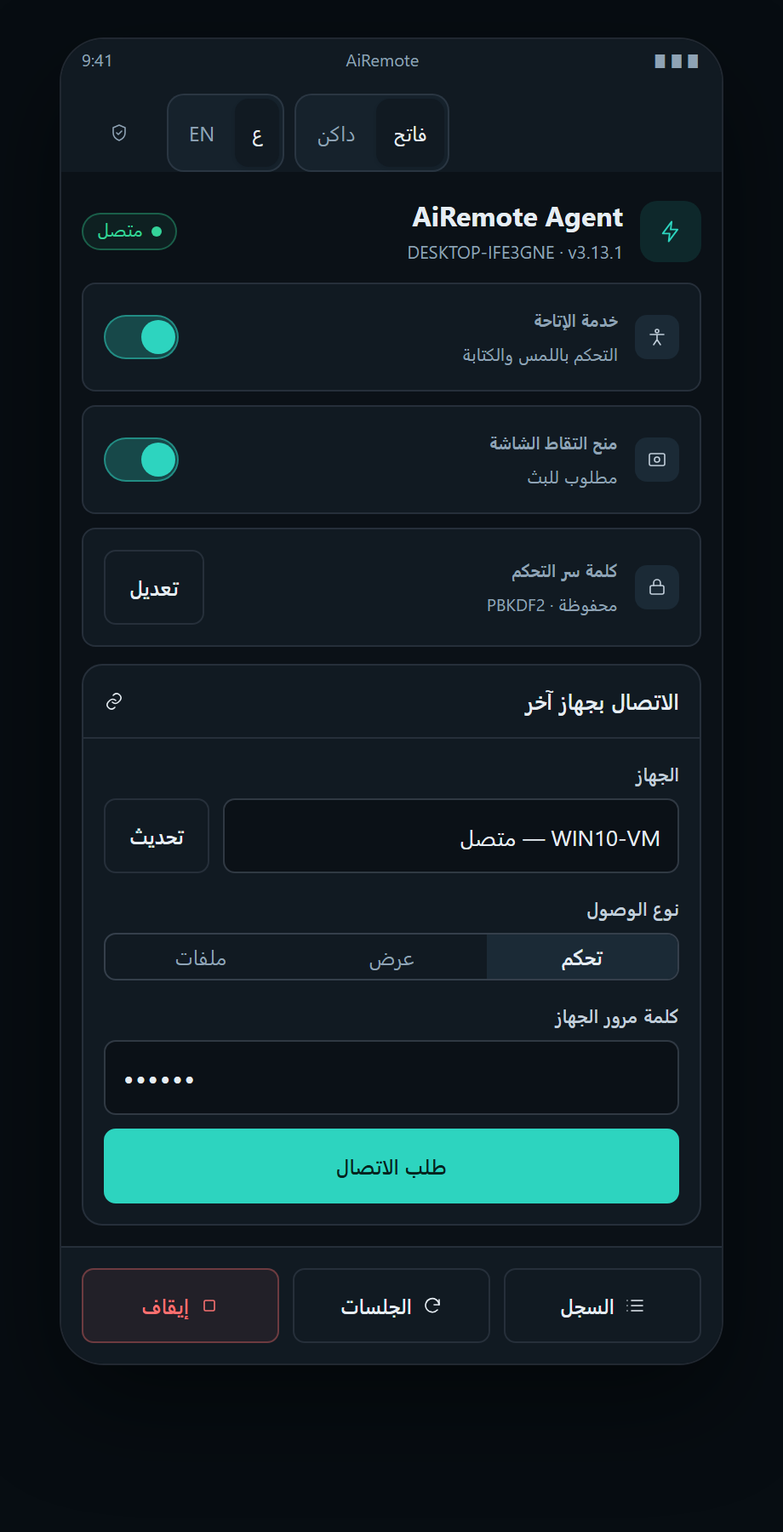
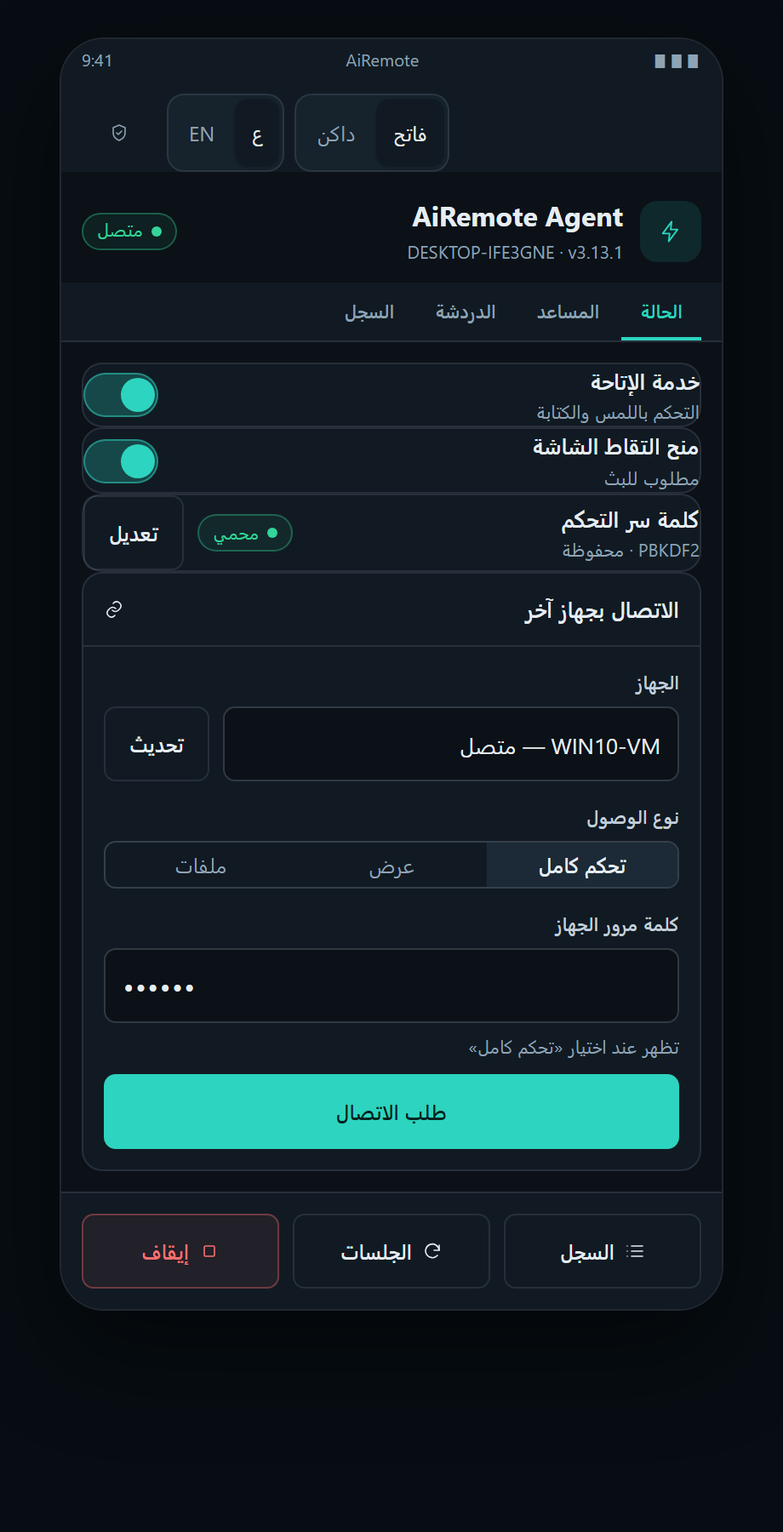
fix(design): mirror the four real agent tabs (status/ai/viewers/log) and fix pane switching

diff --git a/design/windows-agent.html b/design/windows-agent.html
@@ -150,6 +150,7 @@
   .seg2{display:inline-flex;background:var(--surface2);border:1px solid var(--line);border-radius:10px;padding:2px;gap:2px}
   .seg2 button{border:0;background:none;color:var(--muted);font:inherit;font-size:11px;padding:3px 8px;border-radius:8px;cursor:pointer}
   .seg2 button.on{background:var(--surface);color:var(--ink);box-shadow:0 1px 2px rgba(2,6,23,.10)}
+  .pg.on{display:flex;flex-direction:column;gap:12px;padding:12px}
   html,body{min-height:100vh}
   body{background:#eef3f7;display:flex;flex-direction:column;align-items:center;padding:22px}
   html:not(.light) body{background:#070d12}
@@ -224,13 +225,13 @@
     </div>
 
     <div class="tabs">
-      <button class="on" data-tab="ctrl" onclick="showTab('ctrl')"><span data-en="Remote control">التحكم عن بُعد</span></button>
-      <button data-tab="connect" onclick="showTab('connect')"><span data-en="Connect to a device">الاتصال بجهاز آخر</span></button>
-      <button data-tab="sessions" onclick="showTab('sessions')"><span data-en="Sessions">الجلسات</span></button>
-      <button data-tab="session" onclick="showTab('session')"><span data-en="Session">الجلسة</span></button>
+      <button class="on" data-tab="status" onclick="showTab('status')"><span data-en="Status">الحالة</span></button>
+      <button data-tab="ai" onclick="showTab('ai')"><span data-en="AI assistant">المساعد الذكي</span></button>
+      <button data-tab="chat" onclick="showTab('chat')"><span data-en="Viewer chat">دردشة المشاهدين</span> <span class="chip ok"><span class="dot"></span><span data-en="2">٢</span></span></button>
+      <button data-tab="log" onclick="showTab('log')"><span data-en="Log">السجل</span></button>
     </div>
 
-    <div class="pg on" id="ctrl" style="padding:12px;display:flex;flex-direction:column;gap:12px">
+    <div class="pg on" id="status">
       <div class="card">
         <div class="card-h"><span class="ttl"><span data-en="Remote control">التحكم عن بُعد</span></span>
           <span class="sub"><span data-en="One password for every path">كلمة سر واحدة تحكم كل المسارات</span></span>
@@ -268,21 +269,6 @@
       </div>
 
       <div class="card">
-        <div class="card-h"><span class="ttl"><span data-en="Recent events">آخر الأحداث</span></span><div class="grow"></div>
-          <button class="btn ghost sm" data-feature="copy-log-btn"><span data-en="Copy">نسخ</span></button>
-          <button class="btn ghost sm" data-feature="export-log-btn"><span data-en="Export">تصدير</span></button>
-          <button class="btn ghost sm" data-feature="clear-log"><span data-en="Clear">مسح</span></button>
-          <button class="btn ghost sm" data-feature="log-coll-btn"><span data-en="Collapse">طيّ</span></button></div>
-        <div class="card-b log">
-          <div class="ln"><span class="ts">23:41:02</span><span><span data-en="Agent↔agent: session accepted with password">وكيل↔وكيل: جلسة قُبلت بكلمة سر</span></span></div>
-          <div class="ln"><span class="ts">23:40:58</span><span><span data-en="Agent↔agent: wrong password (bad_password)">وكيل↔وكيل: كلمة سر خاطئة (bad_password)</span></span></div>
-          <div class="ln"><span class="ts">23:38:12</span><span><span data-en="Stream started — 1600×675">بث بدأ — 1600×675</span></span></div>
-        </div>
-      </div>
-    </div>
-
-    <div class="pg" id="connect" style="padding:12px;display:flex;flex-direction:column;gap:12px">
-      <div class="card">
         <div class="card-h"><span class="ttl"><span data-en="Connect to another device">الاتصال بجهاز آخر</span></span><div class="grow"></div><svg class="i sm"><use href="#ic-link"/></svg></div>
         <div class="card-b">
           <div class="field"><label><span data-en="Devices">الأجهزة</span></label>
@@ -300,60 +286,86 @@
           <button class="btn primary" style="width:100%;justify-content:center" data-feature="session-request-btn"><span data-en="Request connection">طلب الاتصال</span></button>
         </div>
       </div>
-    </div>
 
-    <div class="pg" id="sessions" style="padding:12px;display:flex;flex-direction:column;gap:12px">
       <div class="card">
         <div class="card-h"><span class="ttl"><span data-en="Sessions">الجلسات</span></span><div class="grow"></div>
           <button class="btn ghost sm" data-feature="sessions-refresh"><svg class="i sm"><use href="#ic-reconnect"/></svg> <span data-en="Refresh">تحديث</span></button></div>
         <div class="card-b" style="display:flex;flex-direction:column;gap:6px">
           <div class="item"><span class="ico"><svg class="i sm"><use href="#ic-link"/></svg></span><div class="tx"><b>WIN11-VM ← WIN10-VM</b><span><span data-en="Full control · active · 03:12">تحكم كامل · نشطة · 03:12</span></span></div><span class="chip ok"><span class="dot"></span><span data-en="Active">نشطة</span></span></div>
           <div class="item"><span class="ico"><svg class="i sm"><use href="#ic-link"/></svg></span><div class="tx"><b>Android-Emulator ← WIN11-VM</b><span><span data-en="View · denied · bad_password">عرض · مرفوضة · bad_password</span></span></div><span class="chip warn"><span class="dot"></span><span data-en="Denied">مرفوضة</span></span></div>
-        </div>
-      </div>
-      <div class="card" style="border-color:rgba(45,212,191,.45)">
-        <div class="card-h"><span class="ttl"><span data-en="Incoming request">طلب وارد</span></span><div class="grow"></div><span class="chip warn"><span class="dot"></span><span data-en="60s">60 ثانية</span></span></div>
-        <div class="card-b">
-          <div class="hint" style="margin-bottom:10px"><span data-en="WIN11-VM requests “full control” — 60s left">WIN11-VM يطلب «تحكم كامل» — يتبقى 60 ثانية</span></div>
-          <div class="row2"><button class="btn primary" data-feature="offer-accept"><span data-en="Accept">قبول</span></button>
-            <button class="btn danger" data-feature="offer-deny"><span data-en="Deny">رفض</span></button></div>
+          <div class="item" style="border-color:var(--accent)"><span class="ico"><svg class="i sm"><use href="#ic-bell"/></svg></span><div class="tx"><b><span data-en="Incoming request — WIN11-VM">طلب وارد — WIN11-VM</span></b><span><span data-en="Full control · 60s left">تحكم كامل · يتبقى 60 ثانية</span></span></div>
+            <div class="row2" style="gap:6px"><button class="btn primary sm" data-feature="offer-accept"><span data-en="Accept">قبول</span></button>
+            <button class="btn danger sm" data-feature="offer-deny"><span data-en="Deny">رفض</span></button></div></div>
         </div>
       </div>
     </div>
 
-    <div class="pg" id="session" style="padding:12px;display:flex;flex-direction:column;gap:12px">
+    <div class="pg" id="ai">
       <div class="card">
-        <div class="card-h"><span class="ttl"><span data-en="Chat">الدردشة</span></span><div class="grow"></div>
-          <button class="btn ghost sm" data-feature="chat-collapse-btn"><span data-en="Collapse">طيّ</span></button>
-          <button class="btn ghost sm" data-feature="chat-popout-btn"><span data-en="Pop out">نافذة</span></button>
-          <button class="btn ghost sm" data-feature="chat-clear-btn"><span data-en="Clear">مسح</span></button></div>
+        <div class="card-h"><span class="ttl"><span data-en="AI assistant">المساعد الذكي</span></span><div class="grow"></div>
+          <button class="btn ghost sm" data-feature="ai-hist-btn"><span data-en="History">السجل</span></button>
+          <button class="btn ghost sm" data-feature="ai-new-btn"><span data-en="New">جديد</span></button>
+          <button class="btn ghost sm" data-feature="ai-stop-btn"><span data-en="Stop">إيقاف</span></button>
+          <button class="btn ghost sm" data-feature="ai-collapse-btn"><span data-en="Collapse">طيّ</span></button></div>
         <div class="card-b">
-          <div class="log" style="max-height:150px;overflow:auto;margin-bottom:8px">
-            <div class="ln"><span class="ts">23:41</span><span><span data-en="WIN11-VM:">WIN11-VM:</span> <span data-en="The screen is a bit slow">الشاشة بطيئة قليلًا</span></span></div>
-            <div class="ln"><span class="ts">23:42</span><span><span data-en="You:">أنت:</span> <span data-en="I will lower the quality">سأخفّض الجودة</span></span></div>
+          <div class="log" style="max-height:190px;overflow:auto;margin-bottom:8px">
+            <div class="ln"><span class="ts"><span data-en="You">أنت</span></span><span><span data-en="Open Notepad and type a note">افتح المفكرة واكتب ملاحظة</span></span></div>
+            <div class="ln"><span class="ts"><span data-en="Assistant">المساعد</span></span><span><span data-en="Done — Notepad is open and the first line is typed.">تم — فتحت المفكرة وكتبت السطر الأول.</span></span></div>
+          </div>
+          <div class="row2">
+            <input class="input" style="flex:1" data-feature="ai-input" placeholder="اسأل المساعد…" data-ph-en="Ask the assistant…">
+            <button class="btn primary" data-feature="ai-send-btn"><span data-en="Send">إرسال</span></button></div>
+        </div>
+      </div>
+      <div class="hint"><span data-en="The assistant acts on this device: open apps, type, click, read state.">المساعد ينفّذ على هذا الجهاز: فتح التطبيقات، الكتابة، النقر، قراءة الحالة.</span></div>
+    </div>
+
+    <div class="pg" id="chat">
+      <div class="card">
+        <div class="card-h"><span class="ttl"><span data-en="Viewer chat">دردشة المشاهدين</span></span>
+          <span class="chip warn"><span class="dot"></span><span data-en="2 unread">٢ غير مقروء</span></span><div class="grow"></div>
+          <button class="btn ghost sm" data-feature="chat-clear-btn"><span data-en="Clear">مسح</span></button>
+          <button class="btn ghost sm" data-feature="chat-popout-btn"><span data-en="Pop out">نافذة</span></button>
+          <button class="btn ghost sm" data-feature="chat-collapse-btn"><span data-en="Collapse">طيّ</span></button></div>
+        <div class="card-b">
+          <div class="log" style="max-height:170px;overflow:auto;margin-bottom:8px">
+            <div class="ln"><span class="ts">23:41</span><span><span data-en="Viewer 1:">مشاهد 1:</span> <span data-en="The screen is a bit slow">الشاشة بطيئة قليلًا</span></span></div>
+            <div class="ln"><span class="ts">23:42</span><span><span data-en="You (host):">أنت (المضيف):</span> <span data-en="I will lower the quality">سأخفّض الجودة</span></span></div>
+            <div class="ln"><span class="ts">23:44</span><span><span data-en="Viewer 2:">مشاهد 2:</span> <span data-en="Thanks, much better">شكرًا، صارت أفضل</span></span></div>
           </div>
           <div class="row2">
             <input class="input" style="flex:1" data-feature="chat-input" placeholder="اكتب رسالة…" data-ph-en="Type a message…">
             <button class="btn primary" data-feature="chat-send-btn"><span data-en="Send">إرسال</span></button></div>
         </div>
       </div>
-
       <div class="card">
-        <div class="card-h"><span class="ttl"><span data-en="Assistant">المساعد</span></span><div class="grow"></div>
-          <button class="btn ghost sm" data-feature="ai-hist-btn"><span data-en="History">السجل</span></button>
-          <button class="btn ghost sm" data-feature="ai-new-btn"><span data-en="New">جديد</span></button>
-          <button class="btn ghost sm" data-feature="ai-stop-btn"><span data-en="Stop">إيقاف</span></button>
-          <button class="btn ghost sm" data-feature="ai-collapse-btn"><span data-en="Collapse">طيّ</span></button></div>
-        <div class="card-b">
-          <div class="hint" style="margin-bottom:8px"><span data-en="Reads device and session state and answers with the next step">يقرأ حالة الجهاز والجلسات ويجيب بالإجراء التالي</span></div>
-          <div class="row2">
-            <input class="input" style="flex:1" data-feature="ai-input" placeholder="اسأل المساعد…" data-ph-en="Ask the assistant…">
-            <button class="btn primary" data-feature="ai-send-btn"><span data-en="Send">إرسال</span></button></div>
+        <div class="card-h"><span class="ttl"><span data-en="Watching now">المشاهدون الآن</span></span><div class="grow"></div><span class="chip ok"><span class="dot"></span><span data-en="2 online">٢ متصل</span></span></div>
+        <div class="card-b" style="display:flex;flex-direction:column;gap:6px">
+          <div class="item"><span class="ico"><svg class="i sm"><use href="#ic-monitor"/></svg></span><div class="tx"><b>WIN11-VM</b><span><span data-en="View · 12 min">عرض · منذ 12 دقيقة</span></span></div><span class="chip ok"><span class="dot"></span><span data-en="Online">متصل</span></span></div>
+          <div class="item"><span class="ico"><svg class="i sm"><use href="#ic-link"/></svg></span><div class="tx"><b>Android-Emulator</b><span><span data-en="View · 3 min">عرض · منذ 3 دقائق</span></span></div><span class="chip ok"><span class="dot"></span><span data-en="Online">متصل</span></span></div>
         </div>
       </div>
     </div>
+
+    <div class="pg" id="log">
+      <div class="card">
+        <div class="card-h"><span class="ttl"><span data-en="Recent events">آخر الأحداث</span></span><div class="grow"></div>
+          <button class="btn ghost sm" data-feature="copy-log-btn"><span data-en="Copy">نسخ</span></button>
+          <button class="btn ghost sm" data-feature="export-log-btn"><span data-en="Export">تصدير</span></button>
+          <button class="btn ghost sm" data-feature="clear-log"><span data-en="Clear">مسح</span></button>
+          <button class="btn ghost sm" data-feature="log-coll-btn"><span data-en="Collapse">طيّ</span></button></div>
+        <div class="card-b log">
+          <div class="ln"><span class="ts">23:41:02</span><span><span data-en="Agent↔agent: session accepted with password">وكيل↔وكيل: جلسة قُبلت بكلمة سر</span></span></div>
+          <div class="ln"><span class="ts">23:40:58</span><span><span data-en="Agent↔agent: wrong password (bad_password)">وكيل↔وكيل: كلمة سر خاطئة (bad_password)</span></span></div>
+          <div class="ln"><span class="ts">23:38:12</span><span><span data-en="Stream started — 1600×675">بث بدأ — 1600×675</span></span></div>
+          <div class="ln"><span class="ts">23:37:40</span><span><span data-en="Viewer joined — WIN11-VM">مشاهد انضم — WIN11-VM</span></span></div>
+        </div>
+      </div>
+      <div class="hint"><span data-en="Last 500 events · “Export” writes a text file">يُحفظ آخر 500 حدث · زر «تصدير» يكتب ملفًا نصيًا</span></div>
+    </div>
   </div>
 </div>
+
 <script>
   function toggleTheme () { document.documentElement.classList.toggle('light') }
   function toggleLang () {

diff --git a/design/android.html b/design/android.html
@@ -150,6 +150,7 @@
   .seg2{display:inline-flex;background:var(--surface2);border:1px solid var(--line);border-radius:10px;padding:2px;gap:2px}
   .seg2 button{border:0;background:none;color:var(--muted);font:inherit;font-size:11px;padding:3px 8px;border-radius:8px;cursor:pointer}
   .seg2 button.on{background:var(--surface);color:var(--ink);box-shadow:0 1px 2px rgba(2,6,23,.10)}
+  .pg.on{display:flex;flex-direction:column;gap:12px;padding:12px}
   html,body{min-height:100vh}
   body{background:#eef3f7;display:flex;flex-direction:column;align-items:center;padding:22px}
   html:not(.light) body{background:#070d12}
@@ -219,22 +220,32 @@
       </div>
       <button class="iconbtn" title="الإعداد" data-feature="and-setup-open" onclick="openSheet('sheet-setup')"><svg class="i sm"><use href="#ic-shield"/></svg></button>
     </div>
+
     <div class="pheap">
       <div class="appicon"><svg class="i"><use href="#ic-bolt"/></svg></div>
       <div><h2>AiRemote Agent</h2><p>DESKTOP-IFE3GNE · v3.13.1</p></div>
       <div class="grow"></div><span class="chip ok"><span class="dot"></span><span data-en="Connected">متصل</span></span>
     </div>
 
-    <div style="padding:0 12px 12px;display:flex;flex-direction:column;gap:10px">
-      <div class="list">
-        <div class="item"><span class="ico"><svg class="i sm"><use href="#ic-a11y"/></svg></span>
-          <div class="tx"><b><span data-en="Accessibility service">خدمة الإتاحة</span></b><span><span data-en="Touch and typing control">التحكم باللمس والكتابة</span></span></div>
-          <div class="toggle on" data-feature="and-a11y-toggle"><i></i></div></div>
-        <div class="item"><span class="ico"><svg class="i sm"><use href="#ic-capture"/></svg></span>
-          <div class="tx"><b><span data-en="Screen capture grant">منح التقاط الشاشة</span></b><span><span data-en="Required for streaming">مطلوب للبث</span></span></div>
-          <div class="toggle on" data-feature="and-capture-toggle"><i></i></div></div>
-        <div class="item"><span class="ico"><svg class="i sm"><use href="#ic-lock"/></svg></span>
-          <div class="tx"><b><span data-en="Control password">كلمة سر التحكم</span></b><span><span data-en="Stored · PBKDF2">محفوظة · PBKDF2</span></span></div>
+    <div class="tabs">
+      <button class="on" data-tab="status" onclick="showTab('status')"><span data-en="Status">الحالة</span></button>
+      <button data-tab="ai" onclick="showTab('ai')"><span data-en="AI">المساعد</span></button>
+      <button data-tab="chat" onclick="showTab('chat')"><span data-en="Chat">الدردشة</span></button>
+      <button data-tab="log" onclick="showTab('log')"><span data-en="Log">السجل</span></button>
+    </div>
+
+    <div class="pg on" id="status">
+      <div class="card">
+        <div class="row2"><div><b><span data-en="Accessibility service">خدمة الإتاحة</span></b><div class="hint"><span data-en="Touch and typing control">التحكم باللمس والكتابة</span></div></div>
+          <div class="grow"></div><div class="toggle on" data-feature="and-a11y-toggle"><i></i></div></div>
+      </div>
+      <div class="card">
+        <div class="row2"><div><b><span data-en="Screen capture grant">منح التقاط الشاشة</span></b><div class="hint"><span data-en="Required to stream">مطلوب للبث</span></div></div>
+          <div class="grow"></div><div class="toggle on" data-feature="and-capture-toggle"><i></i></div></div>
+      </div>
+      <div class="card">
+        <div class="row2"><div><b><span data-en="Control password">كلمة سر التحكم</span></b><div class="hint"><span data-en="PBKDF2 · stored">PBKDF2 · محفوظة</span></div></div>
+          <div class="grow"></div><span class="chip ok"><span class="dot"></span><span data-en="Protected">محمي</span></span>
           <button class="btn ghost sm" data-feature="and-ctrl-pw-open"><span data-en="Edit">تعديل</span></button></div>
       </div>
 
@@ -246,19 +257,73 @@
               <button class="btn ghost sm" data-feature="and-session-refresh"><span data-en="Refresh">تحديث</span></button></div></div>
           <div class="field"><label><span data-en="Access type">نوع الوصول</span></label>
             <div class="seg" style="width:100%">
-              <button class="on" style="flex:1" data-feature="and-access-control"><span data-en="Control">تحكم</span></button>
+              <button class="on" style="flex:1" data-feature="and-access-control"><span data-en="Full control">تحكم كامل</span></button>
               <button style="flex:1" data-feature="and-access-view"><span data-en="View">عرض</span></button>
               <button style="flex:1" data-feature="and-access-files"><span data-en="Files">ملفات</span></button>
             </div></div>
-          <div class="field" style="margin-bottom:8px"><label><span data-en="Device password">كلمة مرور الجهاز</span></label>
+          <div class="field" style="margin-bottom:6px"><label><span data-en="Device password">كلمة مرور الجهاز</span></label>
             <input class="input mono" type="password" value="••••••" data-feature="and-session-pw"></div>
+          <div class="hint" style="margin-bottom:8px"><span data-en="Shown when “full control” is selected">تظهر عند اختيار «تحكم كامل»</span></div>
           <button class="btn primary" style="width:100%;justify-content:center" data-feature="and-session-request"><span data-en="Request connection">طلب الاتصال</span></button>
         </div>
       </div>
     </div>
 
+    <div class="pg" id="ai">
+      <div class="card">
+        <div class="card-h"><span class="ttl"><span data-en="AI assistant">المساعد الذكي</span></span><div class="grow"></div>
+          <button class="btn ghost sm" data-feature="and-ai-hist"><span data-en="History">السجل</span></button>
+          <button class="btn ghost sm" data-feature="and-ai-new"><span data-en="New">جديد</span></button></div>
+        <div class="card-b">
+          <div class="log" style="max-height:180px;overflow:auto;margin-bottom:8px">
+            <div class="ln"><span class="ts"><span data-en="You">أنت</span></span><span><span data-en="Open settings">افتح الإعدادات</span></span></div>
+            <div class="ln"><span class="ts"><span data-en="Assistant">المساعد</span></span><span><span data-en="Done — settings is open.">تم — الإعدادات مفتوحة.</span></span></div>
+          </div>
+          <div class="row2">
+            <input class="input" style="flex:1" data-feature="and-ai-input" placeholder="اسأل المساعد…" data-ph-en="Ask the assistant…">
+            <button class="btn primary" data-feature="and-ai-send"><span data-en="Send">إرسال</span></button></div>
+        </div>
+      </div>
+    </div>
+
+    <div class="pg" id="chat">
+      <div class="card">
+        <div class="card-h"><span class="ttl"><span data-en="Viewer chat">دردشة المشاهدين</span></span><span class="chip warn"><span class="dot"></span><span data-en="2">٢</span></span><div class="grow"></div>
+          <button class="btn ghost sm" data-feature="and-chat-clear"><span data-en="Clear">مسح</span></button></div>
+        <div class="card-b">
+          <div class="log" style="max-height:150px;overflow:auto;margin-bottom:8px">
+            <div class="ln"><span class="ts">23:41</span><span><span data-en="Viewer 1:">مشاهد 1:</span> <span data-en="Screen is slow">الشاشة بطيئة</span></span></div>
+            <div class="ln"><span class="ts">23:42</span><span><span data-en="You (host):">أنت (المضيف):</span> <span data-en="Lowering quality">سأخفّض الجودة</span></span></div>
+          </div>
+          <div class="row2">
+            <input class="input" style="flex:1" data-feature="and-chat-input" placeholder="اكتب رسالة…" data-ph-en="Type a message…">
+            <button class="btn primary" data-feature="and-chat-send"><span data-en="Send">إرسال</span></button></div>
+        </div>
+      </div>
+      <div class="card">
+        <div class="card-h"><span class="ttl"><span data-en="Watching now">المشاهدون الآن</span></span><div class="grow"></div><span class="chip ok"><span class="dot"></span><span data-en="2 online">٢ متصل</span></span></div>
+        <div class="card-b" style="display:flex;flex-direction:column;gap:6px">
+          <div class="item"><span class="ico"><svg class="i sm"><use href="#ic-monitor"/></svg></span><div class="tx"><b>WIN11-VM</b><span><span data-en="View · 12 min">عرض · 12 دقيقة</span></span></div><span class="chip ok"><span class="dot"></span><span data-en="Online">متصل</span></span></div>
+          <div class="item"><span class="ico"><svg class="i sm"><use href="#ic-link"/></svg></span><div class="tx"><b>Android-Emulator</b><span><span data-en="View · 3 min">عرض · 3 دقائق</span></span></div><span class="chip ok"><span class="dot"></span><span data-en="Online">متصل</span></span></div>
+        </div>
+      </div>
+    </div>
+
+    <div class="pg" id="log">
+      <div class="card">
+        <div class="card-h"><span class="ttl"><span data-en="Log">السجل</span></span><div class="grow"></div>
+          <button class="btn ghost sm" data-feature="and-log-copy"><span data-en="Copy">نسخ</span></button>
+          <button class="btn ghost sm" data-feature="and-log-clear"><span data-en="Clear">مسح</span></button></div>
+        <div class="card-b log">
+          <div class="ln"><span class="ts">23:41:02</span><span><span data-en="Agent↔agent: session accepted with password">وكيل↔وكيل: جلسة قُبلت بكلمة سر</span></span></div>
+          <div class="ln"><span class="ts">23:40:58</span><span><span data-en="Agent↔agent: wrong password (bad_password)">وكيل↔وكيل: كلمة سر خاطئة (bad_password)</span></span></div>
+          <div class="ln"><span class="ts">23:38:12</span><span><span data-en="Stream started — 320×640">بث بدأ — 320×640</span></span></div>
+        </div>
+      </div>
+    </div>
+
     <div class="bottom">
-      <button class="btn ghost" data-feature="and-log" onclick="openSheet('sheet-log')"><svg class="i sm"><use href="#ic-list"/></svg> <span data-en="Log">السجل</span></button>
+      <button class="btn ghost" data-feature="and-log" onclick="showTab('log')"><svg class="i sm"><use href="#ic-list"/></svg> <span data-en="Log">السجل</span></button>
       <button class="btn ghost" data-feature="and-sessions" onclick="openSheet('sheet-sessions')"><svg class="i sm"><use href="#ic-reconnect"/></svg> <span data-en="Sessions">الجلسات</span></button>
       <button class="btn danger" data-feature="and-stop"><svg class="i sm"><use href="#ic-stop"/></svg> <span data-en="Stop">إيقاف</span></button>
     </div>
@@ -303,7 +368,7 @@
     <div class="sheet" id="sheet-session" onclick="closeSheet('sheet-session')">
       <div class="inner" onclick="event.stopPropagation()">
         <div class="card-h" style="border:0;padding:0 0 8px"><span class="ttl"><span data-en="Session">الجلسة</span></span><div class="grow"></div><span class="chip ok"><span class="dot"></span><span data-en="Active">نشطة</span></span></div>
-        <div class="screen" style="height:180px;border-radius:10px;display:flex;align-items:center;justify-content:center;background:var(--surface2);color:var(--muted);font-size:12px"><span data-en="Remote screen">شاشة الجهاز البعيد</span></div>
+        <div class="screen" style="height:170px;border-radius:10px;display:flex;align-items:center;justify-content:center;background:var(--surface2);color:var(--muted);font-size:12px"><span data-en="Remote screen">شاشة الجهاز البعيد</span></div>
         <div class="row2" style="margin-top:10px">
           <button class="btn ghost" data-feature="and-session-audio"><span data-en="Audio">الصوت</span></button>
           <button class="btn ghost" data-feature="and-session-record"><span data-en="Record">تسجيل</span></button>
@@ -324,6 +389,7 @@
     </div>
   </div>
 </div>
+
 <script>
   function toggleTheme () { document.documentElement.classList.toggle('light') }
   function toggleLang () {

diff --git a/design/server.html b/design/server.html
@@ -150,6 +150,7 @@
   .seg2{display:inline-flex;background:var(--surface2);border:1px solid var(--line);border-radius:10px;padding:2px;gap:2px}
   .seg2 button{border:0;background:none;color:var(--muted);font:inherit;font-size:11px;padding:3px 8px;border-radius:8px;cursor:pointer}
   .seg2 button.on{background:var(--surface);color:var(--ink);box-shadow:0 1px 2px rgba(2,6,23,.10)}
+  .pg.on{display:flex;flex-direction:column;gap:12px;padding:12px}
   html,body{min-height:100vh}
   body{background:#eef3f7;display:flex;flex-direction:column;align-items:center;padding:22px}
   html:not(.light) body{background:#070d12}

diff --git a/design/VERIFY.md b/design/VERIFY.md
@@ -70,8 +70,8 @@ PASS  windows-agent.html  ai-input    AR="اسأل المساعد…"  EN="Ask t
 | السطح | كان | صار |
 |---|---|---|
 | `server.html` | 3 صفحات · جدار فقط · 3 تبويبات | **10 صفحات** (نظرة/أجهزة/مساعد/جلسات/ملفات/تدقيق/مستخدمون/إشعارات/إعدادات/مساعدة) · **4 أزرار تنقّل** في الشريط العلوي + قائمة تطبيق للبقية · **4 بطاقات أسطول** في النظرة العامة ومثلها في الأجهزة · تحكم ثيم/لغة في الشريط العلوي |
-| `windows-agent.html` | 3 تبويبات | **4 تبويبات** (+الجلسة: دردشة ومساعد) · تحكم ثيم/لغة في شريط العنوان |
-| `android.html` | 3 أوراق | **6 أوراق** (+طلب وارد، عرض الجلسة، الإعداد/الاقتران) · تحكم ثيم/لغة في الرأس |
+| `windows-agent.html` | 3 تبويبات مخترعة (تحكم/اتصال/جلسات) | **4 تبويبات مطابقة للتطبيق**: الحالة · المساعد الذكي · دردشة المشاهدين (بشارة غير مقروء وقائمة مشاهديـن) · السجل · تحكم ثيم/لغة في شريط العنوان |
+| `android.html` | 3 أوراق بلا تبويبات | **4 تبويبات مطابقة للتطبيق** (الحالة · المساعد · الدردشة · السجل) + 6 أوراق (سجل/جلسات/طلب وارد/عرض الجلسة/الإعداد) + تحكم ثيم/لغة في الرأس |
 
 **فحص وظيفي: 36/36 PASS** (`work/verify-new-controls.cjs`) — يشمل: فتح كل صفحة من الشريط، إبراز التبويب النشط، قائمة التطبيق، بطاقات الأسطول وأزرارها، صفحة المساعد وحقليها، التبويبات الأربعة، الأوراق الثلاث الجديدة، وأهداف اللمس.
 
@@ -92,6 +92,31 @@ RESULT=PASS
 أثناء التوسيع استُخدم `Get-Content | Set-Content` في PowerShell 5.1 فأُعيد ترميز المولّد (UTF-8 ← ANSI ← UTF-8) وتحوّل النص العربي كله إلى `Ø£Ø³Ø¦…`. كُشف بالفحص (`Arabic=0 · mojibake=1663`)، واستُعيد الملف من نسخة سليمة وأُعيد تطبيق التعديلات **برمجيًا** (Node، مراسٍ ASCII فقط). الآن: `Arabic=1652/746/546 · mojibake=0` في الملفات الثلاثة.
 
 **القاعدة:** لا تستخدم PowerShell لتعديل ملفات تحتوي عربيًا. استخدم Node/`read`/`edit`، أو تحقّق دائمًا بـ`work/enc.cjs`.
+
+## 2.4) تصحيح جوهري: تبويبات الوكلاء (2026-11-05)
+
+**الخطأ:** بنيت تبويبات مخترعة («التحكم عن بعد / الاتصال بجهاز آخر / الجلسات / الجلسة») بينما التطبيق الفعلي — في `renderer/index.html` و`activity_main.xml` — له **أربعة تبويبات متطابقة في الوكيلين**:
+
+| # | التبويب | ويندوز | أندرويد |
+|---|---|---|---|
+| 1 | الحالة | `data-tab="status"` | `tab_status` |
+| 2 | المساعد الذكي | `data-tab="ai"` | `tab_ai` |
+| 3 | دردشة المشاهدين | `data-tab="viewers"` | `tab_chat` |
+| 4 | السجل | `data-tab="log"` | `tab_log` |
+
+**الإصلاح:** أُعيد بناء جسمي الوكيلين على هذا الهيكل، مع الاحتفاظ بكل عناصر الحالة (كلمة السر، الخادم، الاتصال بجهاز آخر، الجلسات، الطلب الوارد) داخل تبويب «الحالة»، والدردشة والمساعد كاملين في تبويبيهما.
+
+**عطل ثانٍ كشفه الفحص:** اللوحات كانت تحمل `style="display:flex"` مضمّنًا، وهو يتجاوز `.pg{display:none}` — فالتبديل يغيّر التظليل ولا يغيّر المحتوى. أُزيل المضمّن وأُضيف `.pg.on{display:flex;flex-direction:column;gap:12px;padding:12px}`.
+
+**الدليل (8/8 PASS)** — ارتفاع كل لوحة عند كل تبويب:
+
+```
+windows  status → {status:1119, ai:0, chat:0, log:0}
+windows  ai     → {status:0, ai:198, chat:0, log:0}
+windows  chat   → {status:0, ai:0, chat:396, log:0}
+windows  log    → {status:0, ai:0, chat:0, log:201}
+android  status/ai/chat/log → 499/212/417/181 والباقي 0
+```
 
 ## 3) الثيم واللغة والعرض (الملفات الثلاثة)
 
